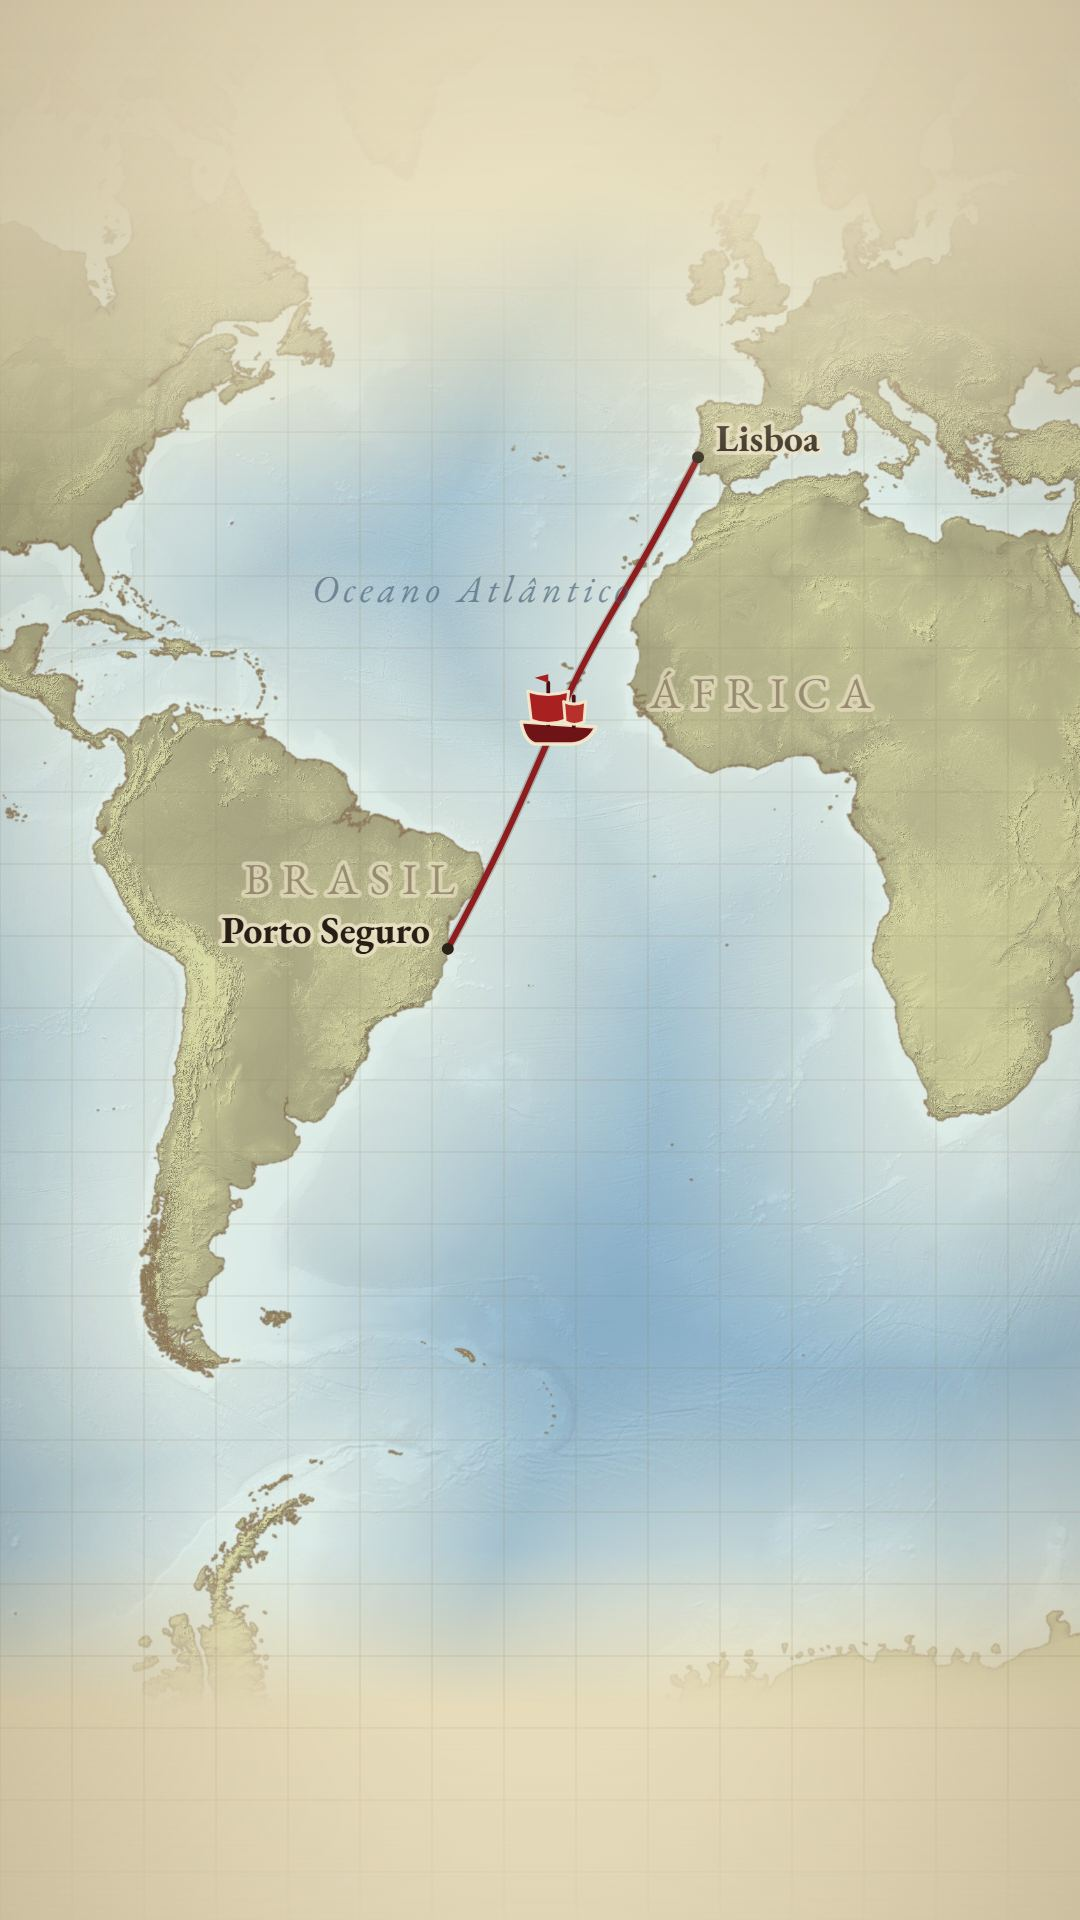
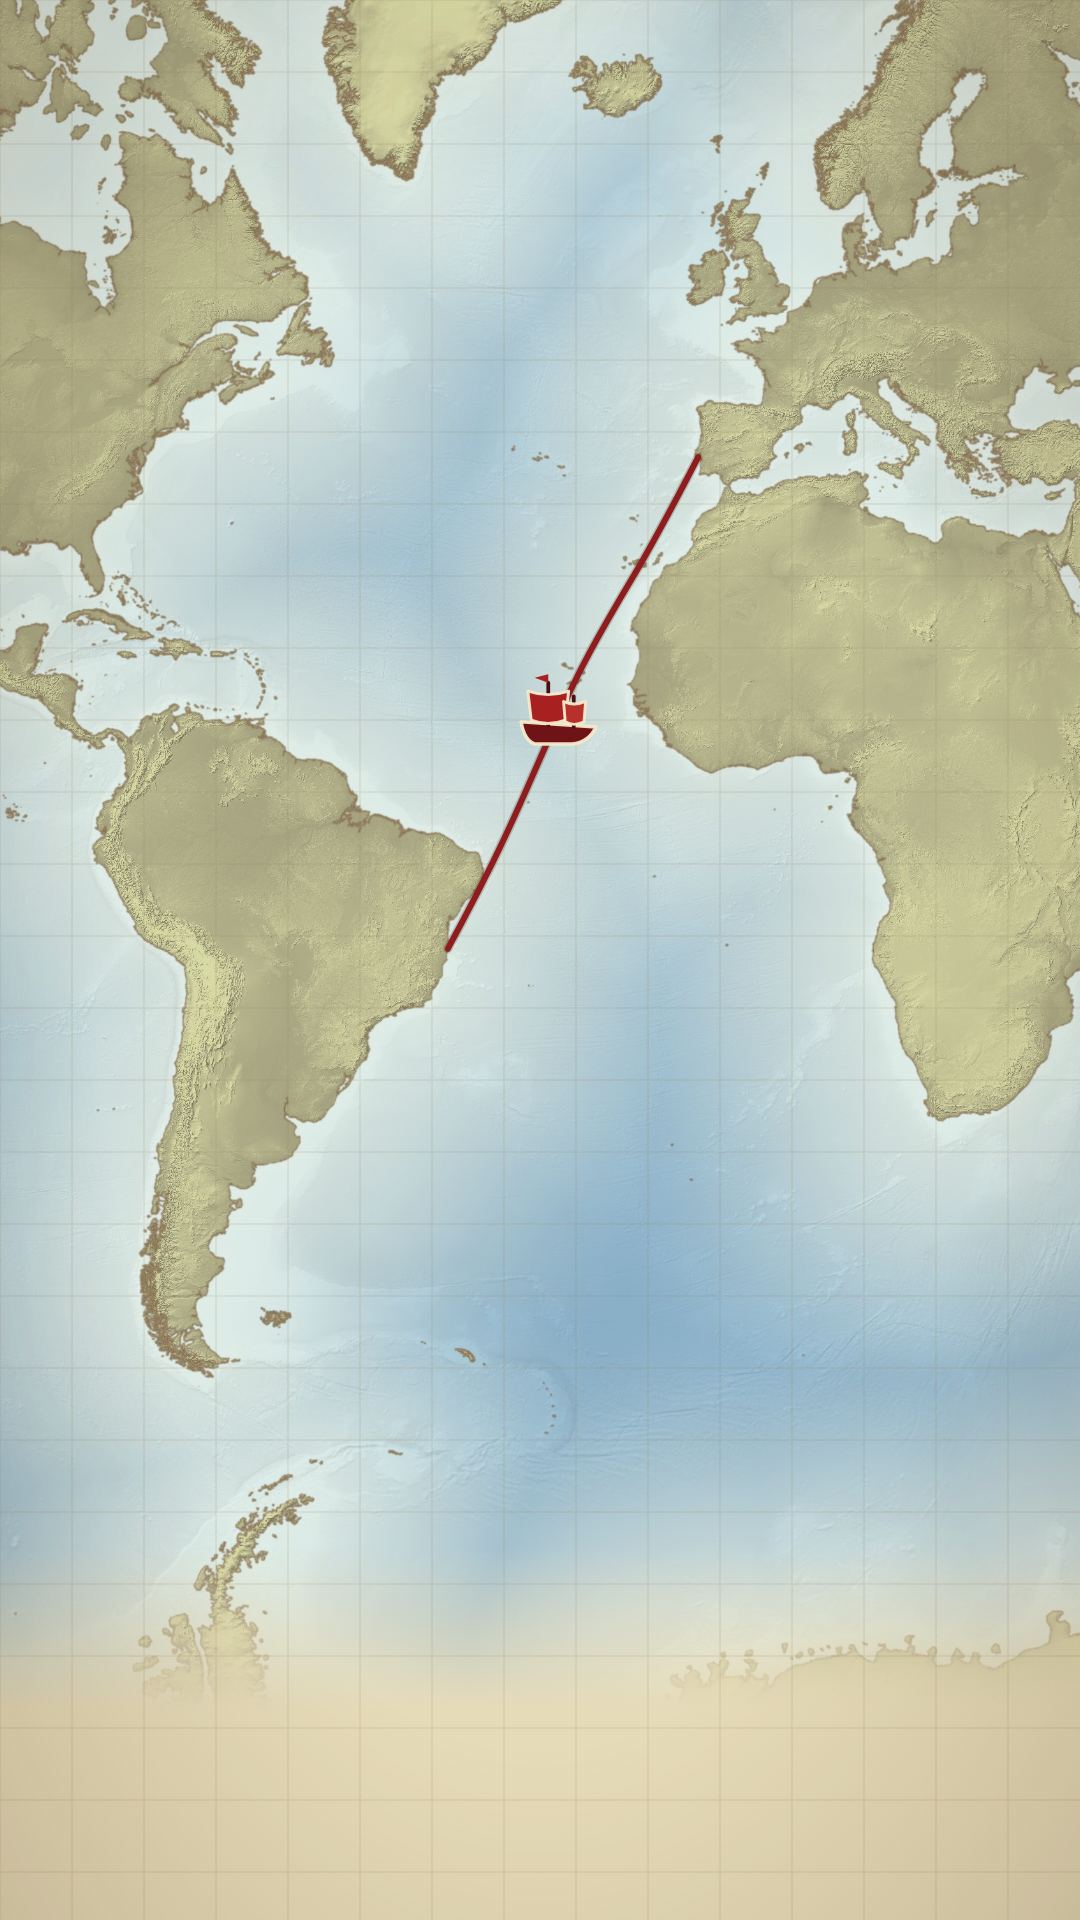
Fundo: mapa mais visível e sem nomes de lugares atrás do texto

Changed region(s): [[0.0, 0.0, 1.0, 0.25], [0.1833, 0.4375, 0.4278, 0.5], [0.6111, 0.3438, 0.825, 0.375]]

diff --git a/index.html b/index.html
@@ -16,7 +16,7 @@
         background-size: 48px 48px; display: flex; justify-content: center; padding: 32px 16px 48px;
       }
       /* the map stays still behind the page (a fixed layer, since iOS ignores background-attachment: fixed) */
-      body::before { content: ""; position: fixed; inset: 0; z-index: -1; background: linear-gradient(rgba(230,219,185,0.5), rgba(230,219,185,0.5)), url(fundo.jpg) center / cover no-repeat; }
+      body::before { content: ""; position: fixed; inset: 0; z-index: -1; background: linear-gradient(rgba(230,219,185,0.3), rgba(230,219,185,0.3)), url(fundo.jpg) center / cover no-repeat; }
       main { width: 100%; max-width: 440px; text-align: center; }
       .kicker { font-size: 15px; letter-spacing: 0.32em; text-transform: uppercase; color: #685e4a; }
       h1 { margin-top: 8px; font-size: 40px; line-height: 1.05; letter-spacing: 0.04em; text-transform: uppercase; }
